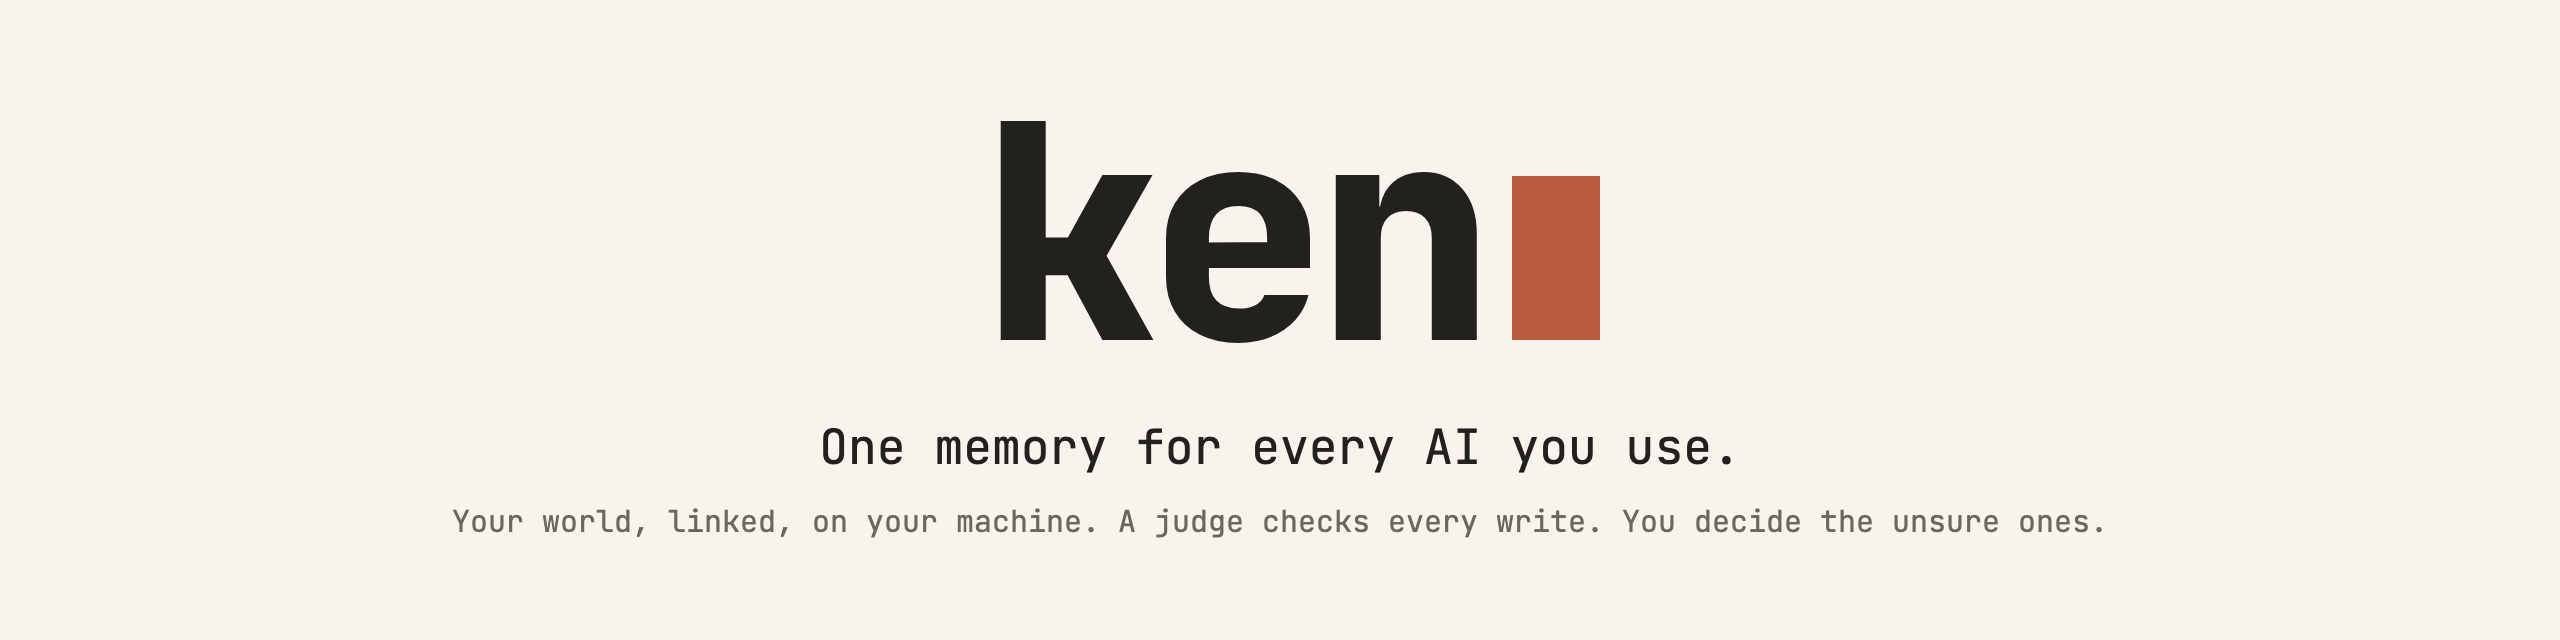
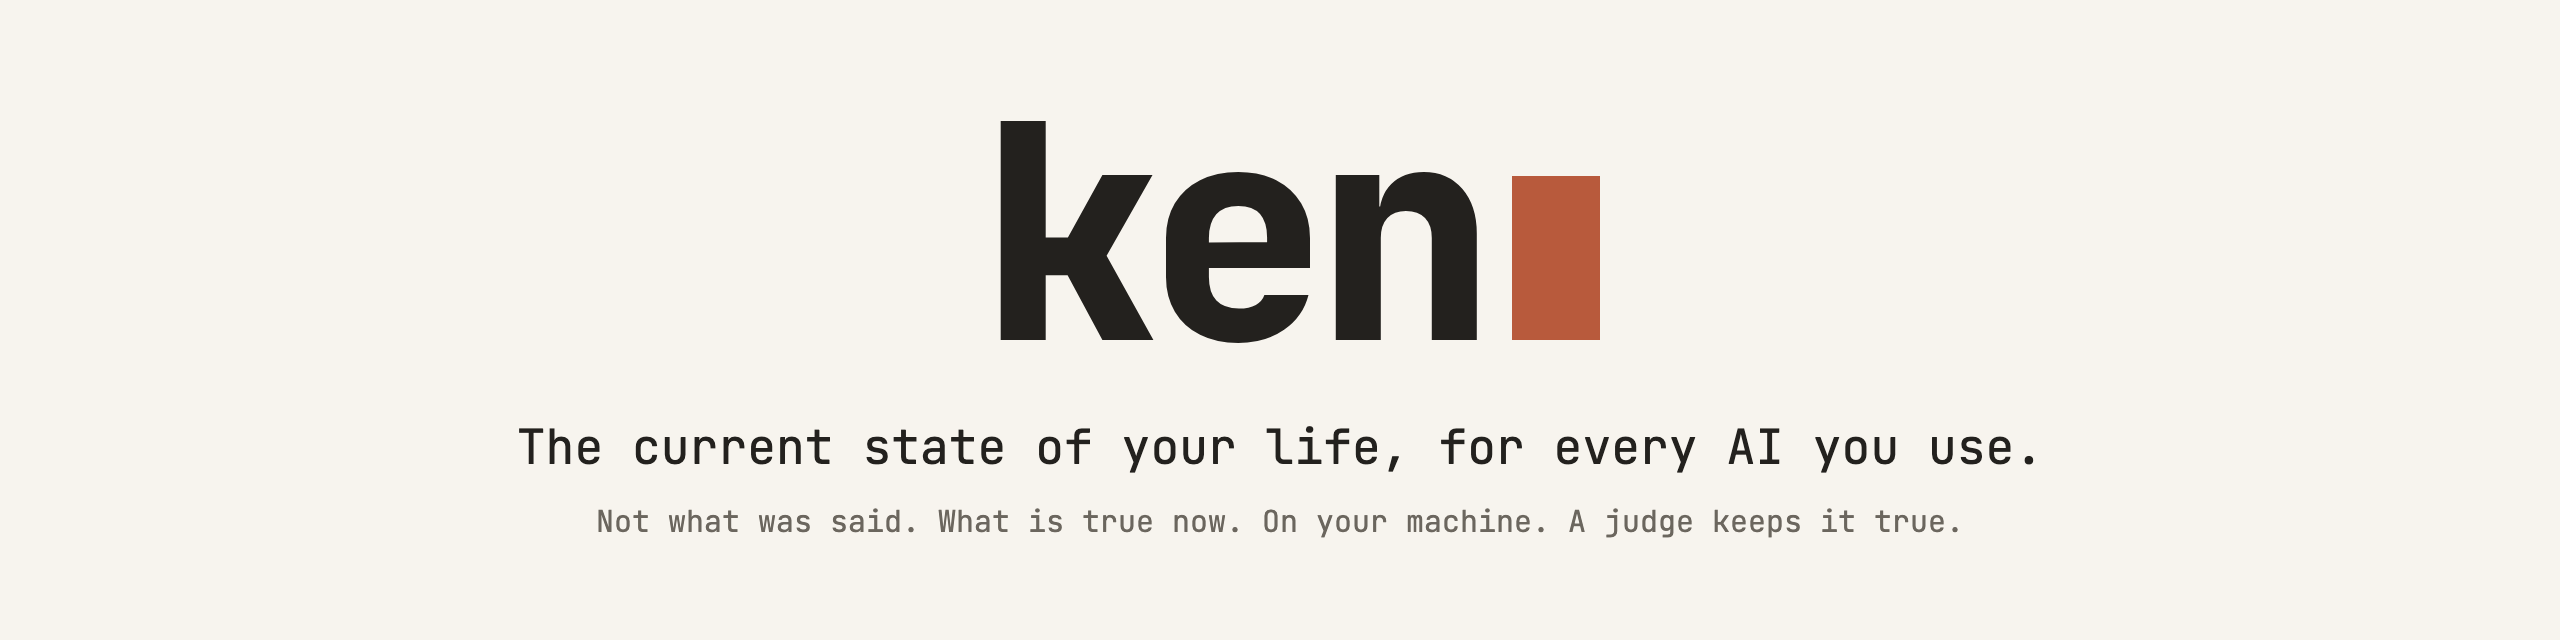
README: state headline (the current state of your life, for every AI you use) (#5)

Changed region(s): [[0.1875, 0.6562, 0.7812, 0.75], [0.1875, 0.7812, 0.8125, 0.8438]]

diff --git a/README.md b/README.md
@@ -1,11 +1,12 @@
 <picture>
   <source media="(prefers-color-scheme: dark)" srcset=".github/assets/header-dark.png">
-  <img alt="ken. One memory for every AI you use. Your world, linked, on your machine. A judge checks every write. You decide the unsure ones." src=".github/assets/header-light.png" width="100%">
+  <img alt="ken. The current state of your life, for every AI you use. Not what was said. What is true now. On your machine. A judge keeps it true." src=".github/assets/header-light.png" width="100%">
 </picture>
 
 <p align="center">
-  Ken is a self-hosted MCP server that keeps one current, linked record of your tasks, people,
-  projects and preferences, shared by every AI app you use. We call that record "your world".
+  Ken is a self-hosted MCP server that keeps the current state of your life: one linked record of
+  your tasks, people, projects and preferences, shared by every AI app you use. Not what was said,
+  but what is true now. We call that record "your world".
   One SQLite file, Python, alpha. It uses a model for its checks: OpenAI, any OpenAI-compatible API,
   a local model, or your Claude Code login.
 </p>
